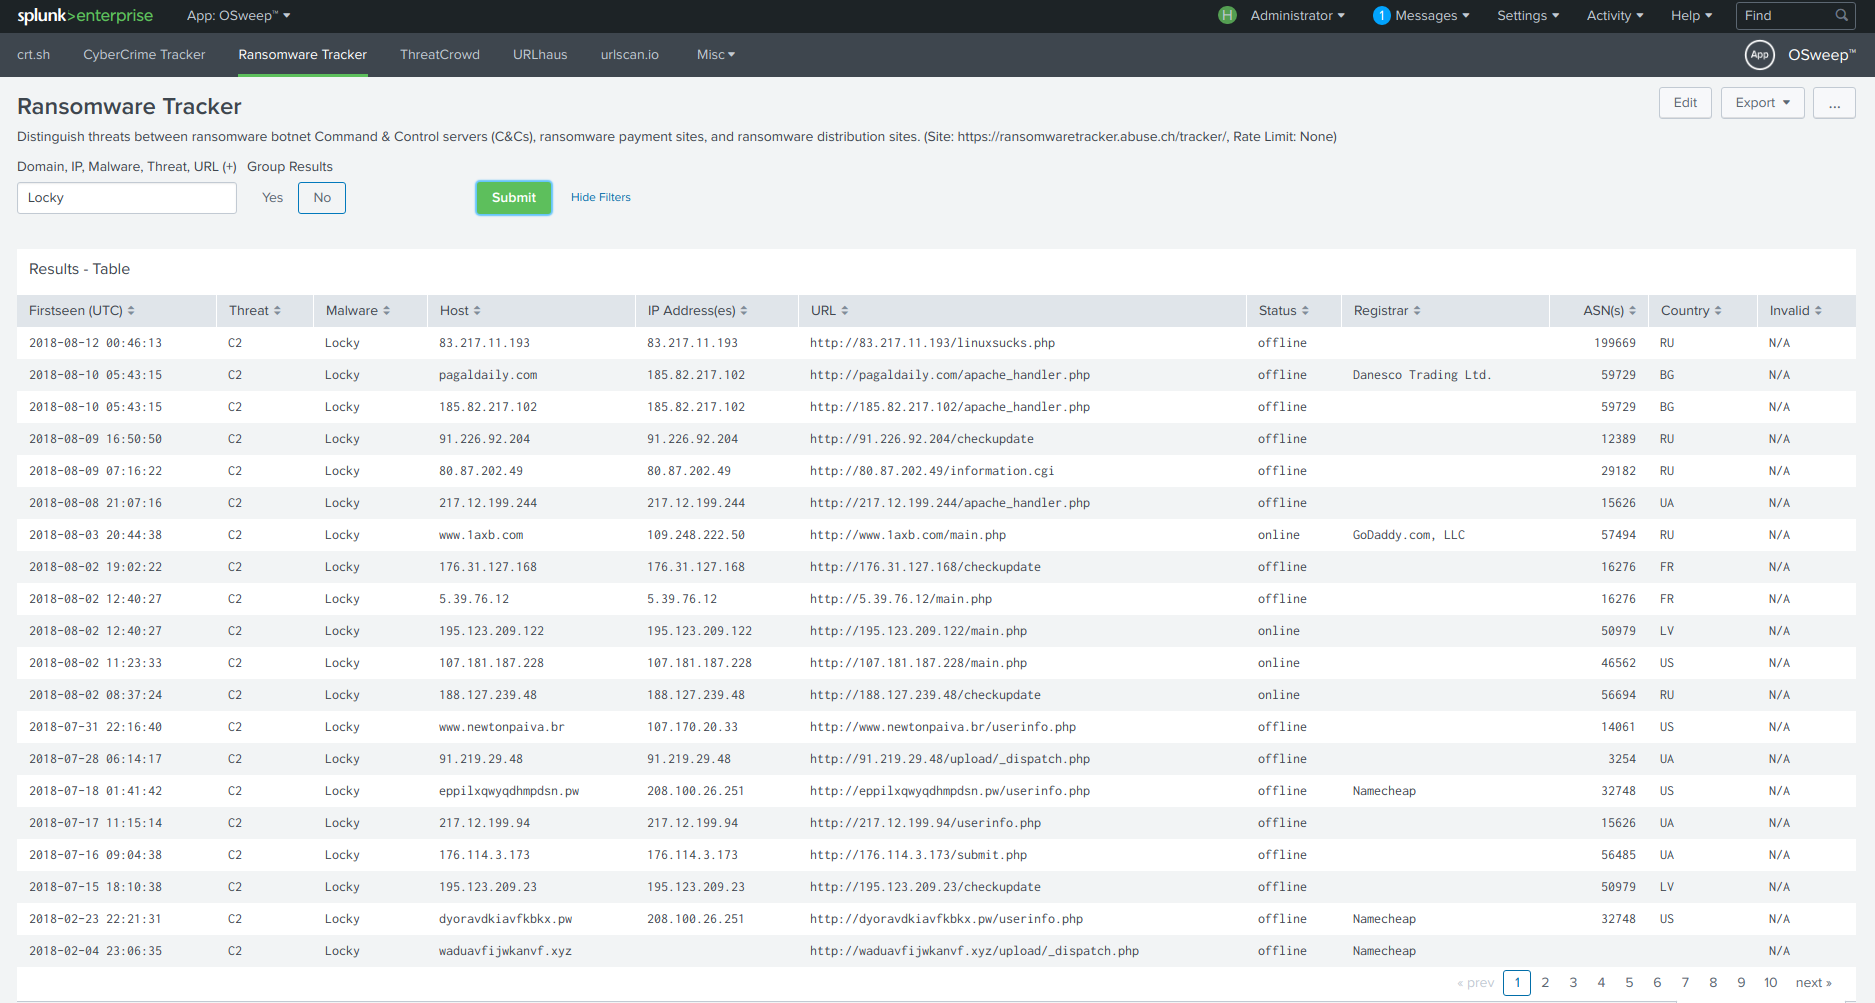
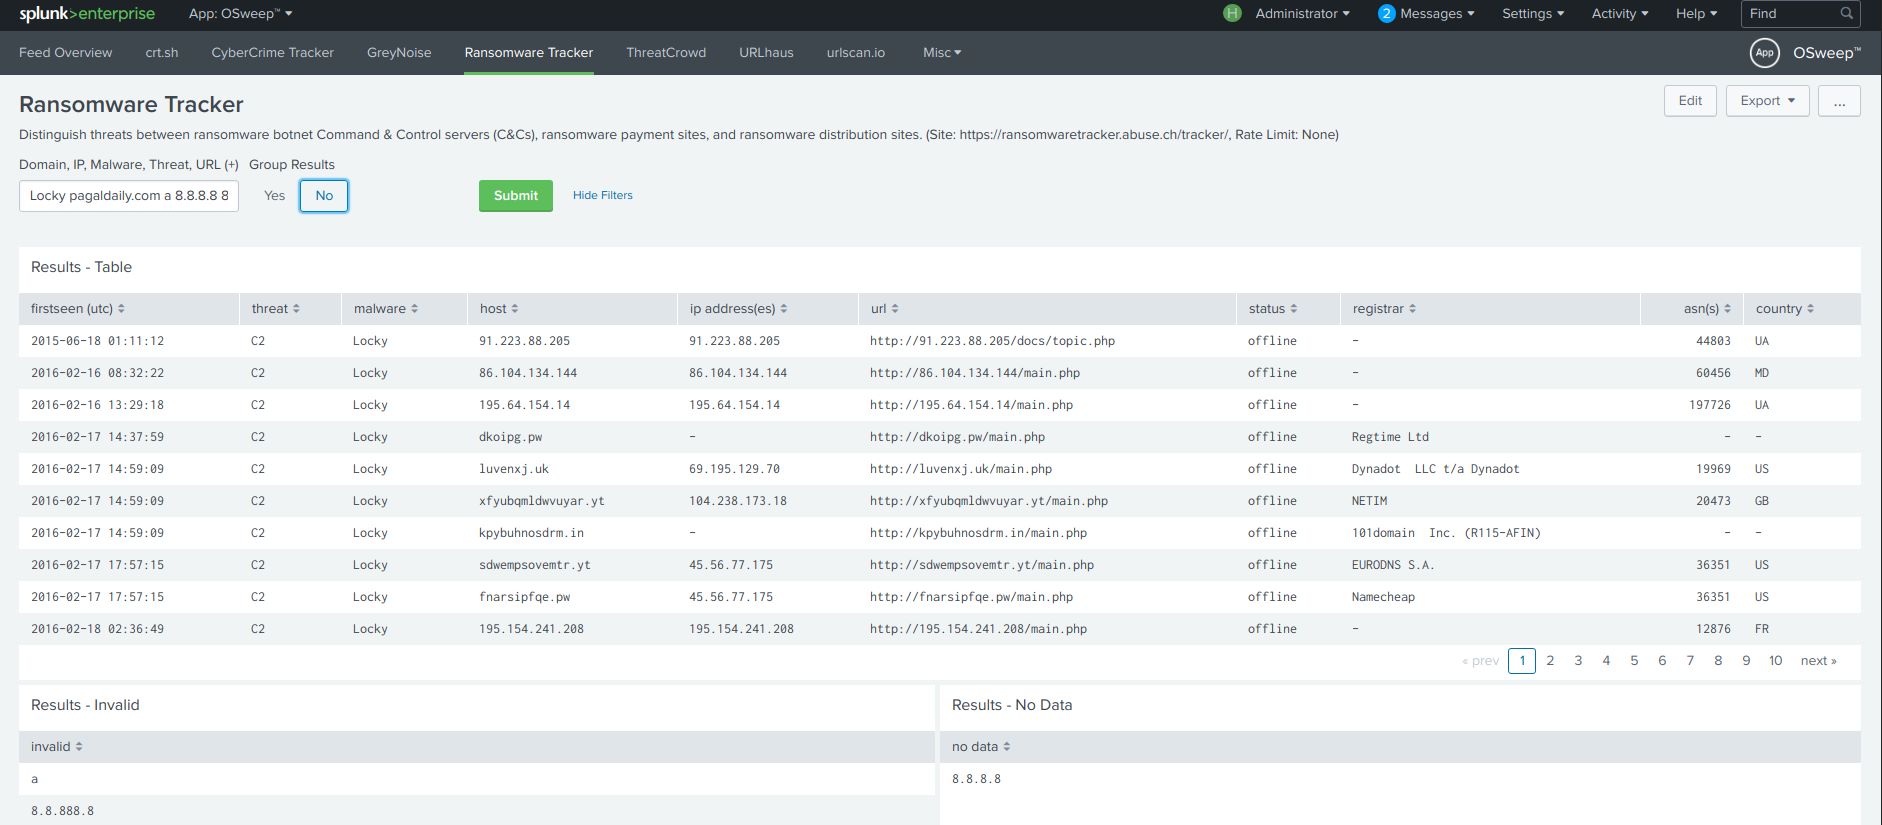
Update

diff --git a/README.md b/README.md
@@ -2,7 +2,9 @@
 ##### Don't Just Search OSINT. Sweep It.  
 
 #### Description  
-If you work in IT security, then you most likely use OSINT to help you understand what it is that your SIEM alerted you on and what everyone else in the world understands about it. More than likely you are using more than one OSINT service because most of the time OSINT will only provide you with reports based on the last analysis of the IOC. For some, that's good enough. They create network and email blocks, create new rules for their IDS/IPS, update the content in the SIEM, create new alerts for monitors in Google Alerts and DomainTools, etc etc. For others, they deploy these same countermeasures based on provided reports from their third-party tools that the company is paying THOUSANDS of dollars for. The problem with both of these is that the analyst needs to dig a little deeper (ex. FULLY deobfuscate a PowerShell command found in a malicious macro) to gather all of the IOCs. And what if the additional IOC(s) you are basing your analysis on has nothing to do with what is true about that site today? And then you get pwned? And then other questions from management arise...  
+If you work in IT security, then you most likely use OSINT to help you understand what it is that your SIEM alerted you on and what everyone else in the world understands about it. More than likely you are using more than one OSINT service because most of the time OSINT will only provide you with reports based on the last analysis of the IOC. For some, that's good enough. They create network and email blocks, create new rules for their IDS/IPS, update the content in the SIEM, create new alerts for monitors in Google Alerts and DomainTools, etc etc. For others, they deploy these same countermeasures based on provided reports from their third-party tools that the company is paying THOUSANDS of dollars for.  
+
+The problem with both of these is that the analyst needs to dig a little deeper (ex. FULLY deobfuscate a PowerShell command found in a malicious macro) to gather all of the IOCs. And what if the additional IOC(s) you are basing your analysis on has nothing to do with what is true about that site today? And then you get pwned? And then other questions from management arise...  
 
 See where this is headed? You're about to get a pink slip and walked out of the building so you can start looking for another job in a different line of work.  
 
@@ -11,8 +13,8 @@ So why did you get pwned? You know that if you wasted time gathering all the IOC
 The fix? **OSweep™**.  
 
 #### Prerequisites  
-- Splunk  
-- Python 2.7.14 ($SPLUNK_HOME/bin/python)  
+- Splunk 7.1.3 >  
+- Python 2.7.14 > ($SPLUNK_HOME/bin/python)  
 
 #### Setup  
 Open a terminal and run the following commands as the user running Splunk:  
@@ -48,16 +50,22 @@ Three of the dashboards below use lookup tables to store the data feed from the 
 **<span>crt</span>.sh - Adhoc**
 ```
 | crtsh <DOMAINS>
-| table "Issuer CA ID", "Issuer Name", "Name Value", "Min Cert ID", "Min Entry Timestamp", "Not Before", "Not After", Invalid 
-| sort - "Min Cert ID"
-``` 
+| fillnull value="-"
+| search NOT "issuer ca id"="-"
+| dedup "issuer ca id" "issuer name" "name value" "min cert id" "min entry timestamp" "not before" "not after"
+| table "issuer ca id" "issuer name" "name value" "min cert id" "min entry timestamp" "not before" "not after"
+| sort - "min cert id"
+```
 
 or to search for subdomains,  
 
 ```
 | crtsh wildcard <DOMAINS>
-| table "Issuer CA ID", "Issuer Name", "Name Value", "Min Cert ID", "Min Entry Timestamp", "Not Before", "Not After", Invalid 
-| sort - "Min Cert ID"
+| fillnull value="-"
+| search NOT "issuer ca id"="-"
+| dedup "issuer ca id" "issuer name" "name value" "min cert id" "min entry timestamp" "not before" "not after"
+| table "issuer ca id" "issuer name" "name value" "min cert id" "min entry timestamp" "not before" "not after"
+| sort - "min cert id"
 ```  
 
 **CyberCrime Tracker - Dashboard**
@@ -71,7 +79,10 @@ or to search for subdomains,
 **CyberCrime Tracker - Adhoc**
 ```
 | cybercrimeTracker <DOMAINS>
-| table Date URL IP "VT Latest Scan" "VT IP Info" Type Invalid
+| fillnull value="-"
+| search NOT date="-"
+| dedup date url ip "vt latest scan" "vt ip info" type
+| table date url ip "vt latest scan" "vt ip info" type
 ```
 
 **GreyNoise - Dashboard**  
@@ -89,7 +100,11 @@ or to search for subdomains,
 **GreyNoise - Adhoc**  
 ```
 | greynoise <IOCs>
-| table "Category" "Confidence" "Last Updated" "Name" "IP" "Intention" "First Seen" "Datacenter" "Tor" "RDNS Parent" "Link" "Org" "OS" "ASN" "RDNS" "Invalid"
+| fillnull value="-" 
+| search NOT "last updated"="-" 
+| dedup category confidence "last updated" name ip intention "first seen" datacenter tor "rdns parent" link org os asn rdns
+| table category confidence "last updated" name ip intention "first seen" datacenter tor "rdns parent" link org os asn rdns
+| sort - "Last Updated"
 ```
 
 **Ransomare Tracker - Dashboard**
@@ -107,7 +122,11 @@ or to search for subdomains,
 **Ransomare Tracker - Adhoc**
 ```
 | ransomwareTracker <DOMAINS>
-| table "Firstseen (UTC)" Threat Malware Host "IP Address(es)" URL Status Registrar ASN(s) Country Invalid
+| fillnull value="-" 
+| search NOT "firstseen (utc)"="-"
+| dedup "firstseen (utc)" threat malware host "ip address(es)" url status registrar asn(s) country
+| table "firstseen (utc)" threat malware host "ip address(es)" url status registrar asn(s) country
+| sort "firstseen (utc)"
 ```
 
 **ThreatCrowd - Dashboard**
@@ -133,7 +152,7 @@ or to search for subdomains,
 **URLhaus - Adhoc**
 ```
 | urlhaus <IOCs>
-| table URL Payload "URLhaus Link" Invalid
+| table URL Payload "URLhaus Link"
 ```  
 
 **<span>urlscan</span>.io - Dashboard**
@@ -147,7 +166,11 @@ or to search for subdomains,
 **<span>urlscan</span>.io - Adhoc**
 ```
 | urlscan <IOCs>
-| Table URL Domain IP PTR Server City Country ASN "ASN Name" Filename "File Size" "MIME Type" SHA256 Invalid
+| fillnull value="-" 
+| search NOT url="-"
+| dedup url domain ip ptr server city country asn asnname filename filesize mimetype sha256 
+| table url domain ip ptr server city country asn asnname filename filesize mimetype sha256 
+| sort sha256
 ```  
 
 #### Destroy  
@@ -164,12 +187,12 @@ All commands accept input from the pipeline. Either use the `fields` or `table` 
 | <OSWEEP COMMAND> <FIELD NAME>
 ```
 
-ex. The following will allow a user to find other URLs analyzed by URLhaus that are hosting the same Lokibot malware as mytour[d]pk and group it by the payload:  
+ex. The following will allow a user to find other URLs analyzed by URLhaus that are hosting the same Emotet malware as ahsweater[d]com and group it by the payload:  
 ```
-| urlhaus mytour.pk 
-| fields Payload 
-| urlhaus Payload 
-| stats values("URL") AS "URL" values(Invalid) AS Invalid BY "Payload"
+| urlhaus ahsweater.com
+| fields payload
+| urlhaus payload
+| stats values(url) AS url BY payload
 ```
 
 ![alt text](https://github.com/leunammejii/osweep/blob/master/static/assets/input_from_pipeline.png)  
